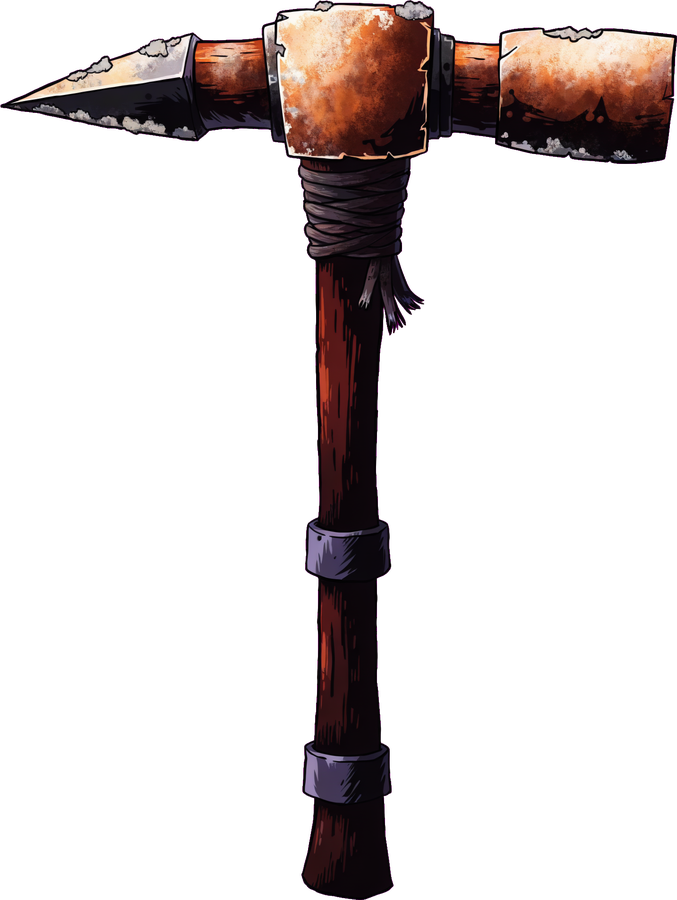
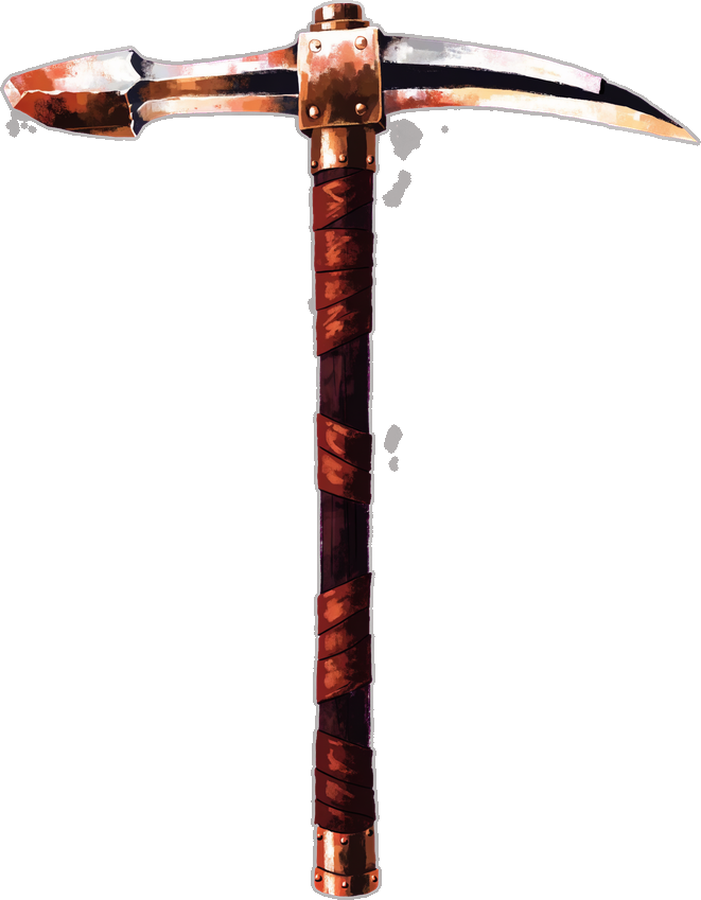
Mining: skill roll, the swing, a Mining track, and a better pick sound
Breaking a rock now teaches you something one time in five rather than every
time, so rank 1 is roughly 250 rocks instead of 50 - a trade you work at
instead of a bar that fills on the first afternoon. Measured over 403 rocks:
21.8% and 24.6% across two runs, which is 20% within sampling noise.

The pickaxe is drawn swinging while he works, from new art in the painted
style the other weapons use - the first attempt was inked and stood out. Two
defects had to come off it: the generator painted a magenta glow despite the
prompt, and cut.py assumed the key colour instead of reading it, which it now
does off the border - asked for magenta the model had returned 246,0,195. It
also painted a drop shadow, 129k pixels of it, which would have followed the
pick through every swing.

The arc is fast down and slow back up, because that is how anything heavy is
swung: gravity does the strike and the arm does the lift.

A tap on the ground, a click on a foe, WASD or an arrow key all put the pick
away. The key check had to go in the keydown handler, not the movement block:
mining bypasses that whole branch, which is how it drives the hero's feet, so
a check inside it never ran. A spell key deliberately does not cancel.

Mining now appears under the spells in the hero panel with a blue track, and
the bar counts within the CURRENT rank - an Expert wants to see 40/125 toward
rank 4, not 165/500 toward a number he does not recognise.
[…]

Changed region(s): [[0.0, 0.0, 1.0, 1.0]]

diff --git a/game.js b/game.js
@@ -116,6 +116,7 @@ const maceImg=new Image();maceImg.src='assets/weapons/mace.png';
    stops a browser that already cached the old boss from serving it forever. */
 const odinImg=new Image();odinImg.src='assets/boss/odin_boss.png?v=2';
 const odinSpearImg=new Image();odinSpearImg.src='assets/boss/odin_spear.png?v=2';
+const pickImg=new Image();pickImg.src='assets/weapons/pickaxe.png?v=2'; /* the miner's tool */
 /* the three lords of the Violet Halls - painted bodies + one shared blade, tinted per lord */
 const fellordImg=new Image();fellordImg.src='assets/boss/fellord_boss.png?v=2';
 const firelordImg=new Image();firelordImg.src='assets/boss/firelord_boss.png?v=2';
@@ -2253,14 +2254,33 @@ function startAmbience(prof){
 /* Combat / one-shot sounds - all routed through the sfx bus (⚔ button mutes just these). */
 const sfx={
  hit:()=>{noiseHit(0.08,.11,520);blip(170,70,0.09,.07,'triangle');},
- /* ⛏ steel into stone. Three parts, because one is never enough to sound like anything: the bright
-    crack of the point going in, the dull body of the rock taking it, and a short ring off the head.
-    The pitch wanders a little per swing so a run of them does not turn into a machine. */
+ /* ⛏ steel into stone, built in four layers because a single burst never reads as a struck object.
+    1. the transient - a very short bright crack, which is what the ear uses to judge force
+    2. the stone - band-passed noise with a fast, rough decay: rock crumbling rather than hissing
+    3. the ring - the pick head itself. Struck metal is INHARMONIC, its overtones do not sit on
+       whole-number multiples the way a string's do, so the partials here are 1 : 2.76 : 5.40,
+       the ratios of a struck bar. Using octaves instead would sound like a bell or a chime.
+    4. the mass - a low thud so the hit has weight under all that brightness
+    Everything is nudged per swing so a run of them never turns into a machine. */
  pick:()=>{
-  const j=0.9+Math.random()*0.25;
-  noiseSweep(0.045,.085,3200*j,1100*j);
-  noiseHit(0.13,.075,430);
-  blip(520*j,150,0.09,.035,'square');
+  if(!AC.ctx||(S&&!S.sfx))return;
+  const j=0.92+Math.random()*0.18;
+  noiseSweep(0.020,.040,2600*j,1100*j);            /* 1 - short and not too bright: the first pass
+     put 78% of the energy above 2.5 kHz, which reads as hiss rather than as steel on rock */
+  noiseHit(0.105,.095,820*j);                       /* 2 - the crumble, given more of the mix */
+  noiseHit(0.19,.065,280);                          /* 4 - the weight under it */
+  const t=AC.ctx.currentTime, f0=1180*j;            /* 3 */
+  [[1,0.042,0.36],[2.76,0.018,0.24],[5.40,0.007,0.15]].forEach(([mul,vol,dur])=>{
+   const o=AC.ctx.createOscillator();o.type='triangle';o.frequency.value=f0*mul;
+   const g=AC.ctx.createGain();
+   g.gain.setValueAtTime(0.0001,t);
+   g.gain.linearRampToValueAtTime(vol,t+0.004);      /* near-instant attack: it is a strike.
+      Raw level, not scaled by sfxVol() - the sfxG bus this feeds already carries that gain, and
+      applying it here as well would square it and make the combat slider behave oddly at the ends. */
+   g.gain.exponentialRampToValueAtTime(0.0001,t+dur);
+   o.connect(g);g.connect(AC.sfxG||AC.ctx.destination);
+   o.start(t);o.stop(t+dur+0.02);
+  });
  },
  oreFound:()=>{blip(700,1180,0.10,.05,'triangle');blip(1180,1560,0.12,.04,'sine');},
  swing:()=>noiseSweep(0.13,.08,500,2400),
@@ -2489,10 +2509,12 @@ function startFishing(){
 function stopFishing(){fish.on=false;}
 /* catch toast - shows the last haul for 3s while the next cast is already flying */
 let fishToastT=null;
-function fishToast(html,color){
+function fishToast(html,color,ms){
+ /* ms is optional: a fishing catch is an event and holds for three seconds, but mining fires one of
+    these every few swings, so ore asks for something much shorter or the toast never leaves. */
  const t=$('fishToast');
  t.innerHTML=html;t.style.color=color||'';t.style.display='block';
- clearTimeout(fishToastT);fishToastT=setTimeout(()=>{t.style.display='none';},3000);
+ clearTimeout(fishToastT);fishToastT=setTimeout(()=>{t.style.display='none';},ms||3000);
 }
 $('fishBtn').onclick=()=>{if(fish.on)stopFishing();else startFishing();};
 $('torchBtn').onclick=()=>{ /* 🔥 drop a torch at your feet - a breadcrumb through the maze */
@@ -3392,7 +3414,7 @@ function mineRefresh(){
  const b=$('mineLearn');
  if(b)b.onclick=()=>{
   S.mining={trained:true,skill:0,on:false};
-  save();buildSkillbar();renderHUD();sfx.loot();
+  save();buildSkillbar();renderHUD();renderHero();sfx.loot();
   log('<span class="imp">⛏ Mining learned.</span> The pick sits beside your potions - tap it and you will work every rock in the zone.','loot');
   mineRefresh();
  };
@@ -3410,7 +3432,17 @@ function toggleMining(){
  stageMsg(S.mining.on?'⛏ Mining - the pick is out':'⛏ Pick stowed',1400);
  sfx.buy();save();
 }
-let mineTarget=null,mineSwingT=0,mineHits=0,mineNeed=0;
+let mineTarget=null,mineSwingT=0,mineHits=0,mineNeed=0,mineSwingPh=1;
+/* Anything the player does with his own hands puts the pick away: a tap on the ground, a key, a
+   chosen target. Mining drives the hero's feet, so leaving it running while he tries to walk would
+   be a tug of war he cannot win. */
+function stopMining(why){
+ if(!(S&&S.mining&&S.mining.on))return;
+ S.mining.on=false;mineTarget=null;
+ const b=$('mineBtn');if(b)b.classList.remove('on');
+ if(why)stageMsg('⛏ Pick stowed',1100);
+ save();
+}
 /* Rocks are plain scenery solids, so a mined one is simply marked and skipped from then on. It
    comes back next time the zone is built, which is what the player expects from a field of stone -
    and it means none of this has to survive a save. */
@@ -3444,8 +3476,10 @@ function mineTick(dt){
  hero.moving=false;
  hero.fx=Math.sign(mineTarget.x-hero.x)||hero.fx;hero.fy=0;
  mineSwingT-=dt;
+ mineSwingPh=Math.max(0,Math.min(1,1-mineSwingT/0.62)); /* 0 at the strike, 1 by the next */
  if(mineSwingT>0)return true;
  mineSwingT=0.62;                                     /* one swing every 0.62 s */
+ mineSwingPh=0; /* it lands now - restart the arc from the strike */
  hero.swing=0.24;                                     /* reuse the attack animation's arc */
  sfx.pick();
  for(let i=0;i<5;i++)parts.push({x:mineTarget.x+(Math.random()-0.5)*mineTarget.r,y:mineTarget.y-6,
@@ -3453,13 +3487,21 @@ function mineTick(dt){
  if(++mineHits<mineNeed)return true;
  /* the rock gives */
  mineTarget.mined=true;
- mineGain();
+ /* One rock in five teaches you something. At a flat 20% the skill climbs one point at a time all
+    the way up - 1, 2, 3 - so rank 1 is roughly 250 rocks rather than 50, and the whole 500 is a
+    trade you work at rather than a bar that fills on the first afternoon. */
+ if(Math.random()<0.20)mineGain();
  const dr=MINE_DROPS[mineRank().r-1];
- let got=[];
- if(Math.random()<dr.coal){S.ore.coal++;got.push('Coal');}
- if(Math.random()<dr.ore){S.ore.ore++;got.push('Emerald Ore');}
+ let got=[],toast=[];
+ if(Math.random()<dr.coal){S.ore.coal++;got.push('Coal');
+  toast.push(`${uiIcon('it_coal','⬛','lootico')} <b>Coal</b>`);}
+ if(Math.random()<dr.ore){S.ore.ore++;got.push('Emerald Ore');
+  toast.push(`${uiIcon('it_emeraldore','🟩','lootico')} <b>Emerald Ore</b>`);}
  if(got.length){
   sfx.oreFound();
+  /* a short toast on screen as well as the number over the rock - the rock can be off at the edge
+     of the view by the time it breaks, and the whole point is to see what you got */
+  fishToast('+ '+toast.join(' &nbsp;+ '),got.includes('Emerald Ore')?'#9adf9a':'#cfc3ae',1400);
   floatAt(mineTarget.x,mineTarget.y-30,'+'+got.join(' +'),'#9adf9a',true);
   log(`⛏ ${got.join(' and ')} from the rock.`,'loot');
   renderBag();
@@ -3473,6 +3515,7 @@ function mineGain(){
  if(!S.mining)return;
  if(S.mining.skill>=500)return;
  S.mining.skill++;
+ renderHero(); /* the Mining row lives in the hero panel - keep its bar honest */
  const rk=mineRank();
  if(S.mining.skill===rk.at&&rk.r>1){
   sfx.loot();
@@ -3744,28 +3787,38 @@ function drawCityGround(){
    stonework simply continues for 16800 units with no joins to hide. The west run is split around
    the gateway. Culled per run, and the whole thing is skipped while the art is still loading. */
 function drawCityWalls(){
- const ph=cityPattern('wall_strip_h'),pv=cityPattern('wall_strip_v');
- if(!ph||!pv)return;
+ const ih=cityImg('wall_strip_h'),iv=cityImg('wall_strip_v');
+ if(!(ih.complete&&ih.naturalWidth&&iv.complete&&iv.naturalWidth))return;
  const W=world.w,H=world.h,cy=H/2;
  const WI=60,WT=140,WIN=WI+WT,GH=150;
- const hh=cityImg('wall_strip_h').naturalHeight;      /* the art is authored at its world height */
- const vw=cityImg('wall_strip_v').naturalWidth;
+ const hh=ih.naturalHeight;      /* the art is authored at its world height */
+ const vw=iv.naturalWidth;
  const vx0=camX,vy0=camY,vx1=camX+VW/zoom,vy1=camY+VH/zoom;
- /* Clip each band to the camera instead of merely testing whether it is visible at all. The north
-    and south runs are world.w = 16800 wide and the side runs world.h = 5200 tall, so the old test
-    passed and then asked Chromium to rasterise a pattern across the entire map to show the ~1600
-    on screen. Profiling a City frame put this one function at 32.7 ms of 76. The pattern is
-    anchored in world space, so painting only the visible slice produces identical pixels. */
- const band=(x,y,w,h,pat)=>{
+ /* Lay the wall as tiled blits, not as a pattern fill.
+    Clipping the fills to the camera - which is what used to happen here - made no measurable
+    difference, because the cost was never the area. A CanvasPattern is anchored in world space, so
+    every frame the camera moves hands the rasteriser a new device-space phase, and whatever that
+    leaves behind accumulates: profiling put this one function at 19.7 ms of a 26 ms City frame, and
+    an ordinary zone visited AFTER the City ran at 39 ms against its usual 8. Blitting the same tile
+    on a world-aligned grid draws the same pixels with none of that.
+    The rect clip keeps the last tile of a run from spilling past the end of the band - the west wall
+    stops either side of the gateway, and a tile overshooting there would brick up the arch. */
+ const band=(x,y,w,h,img,horiz)=>{
   const x0=Math.max(x,vx0),y0=Math.max(y,vy0),x1=Math.min(x+w,vx1),y1=Math.min(y+h,vy1);
   if(x1<=x0||y1<=y0)return;
-  ctx.fillStyle=pat;ctx.fillRect(x0,y0,x1-x0,y1-y0);
+  if(!(img.complete&&img.naturalWidth))return;
+  const TW=img.naturalWidth,TH=img.naturalHeight;
+  ctx.save();
+  ctx.beginPath();ctx.rect(x0,y0,x1-x0,y1-y0);ctx.clip();
+  if(horiz)for(let tx=Math.floor(x0/TW)*TW;tx<x1;tx+=TW)ctx.drawImage(img,tx,y,TW,TH);
+  else     for(let ty=Math.floor(y0/TH)*TH;ty<y1;ty+=TH)ctx.drawImage(img,x,ty,TW,TH);
+  ctx.restore();
  };
- band(0,WIN-hh,W,hh,ph);                              /* north - stands up from the inner face */
- band(0,H-WI-hh,W,hh,ph);                             /* south */
- band(WIN-vw,0,vw,cy-GH,pv);                          /* west, above the gateway */
- band(WIN-vw,cy+GH,vw,H-(cy+GH),pv);                  /* west, below it */
- band(W-WIN,0,vw,H,pv);                               /* east */
+ band(0,WIN-hh,W,hh,ih,true);                              /* north - stands up from the inner face */
+ band(0,H-WI-hh,W,hh,ih,true);                             /* south */
+ band(WIN-vw,0,vw,cy-GH,iv,false);                          /* west, above the gateway */
+ band(WIN-vw,cy+GH,vw,H-(cy+GH),iv,false);                  /* west, below it */
+ band(W-WIN,0,vw,H,iv,false);                               /* east */
  /* the gatehouse sits IN the wall, not on top of it: same flat top-down projection, scaled so its
     own masonry band comes out exactly as wide as the strip's. Both fractions are measured off the
     art (columns at least half opaque): 0.626 of the gate's width, 0.978 of the strip's tile - the
@@ -5236,6 +5289,9 @@ window.addEventListener('keydown',e=>{
  const k=e.key||'';
  const kl=k.toLowerCase();
  if(!kl)return;
+ /* any movement key puts the pick away. This has to live here, not in the movement block -
+    mining bypasses that whole branch, so a check inside it would never run. */
+ if('wasd'.includes(kl)&&kl.length===1||kl.startsWith('arrow'))stopMining(true);
  if(kl==='escape'&&gameOn&&world&&zoneOf().farm&&buildMode){ /* ✋ same as right-click: put the tool down */
   const held=farmDeselect();
   if(held){e.preventDefault();sfx.warn();stageMsg('✋ Put down '+held,1100);return;}
@@ -5455,9 +5511,10 @@ cv.addEventListener('pointerdown',e=>{
   const d=Math.hypot(wx-en.x,wy-en.y);
   if(d<en.r+20&&d<bd+en.r){best=en;bd=d;}}
  hero.goPortal=false;
- if(best){hero.target=best;hero.moveTo=null;}
+ if(best){hero.target=best;hero.moveTo=null;stopMining(true);}
  else{
   hero.moveTo={x:Math.max(30,Math.min(world.w-30,wx)),y:Math.max(30,Math.min(world.h-30,wy))};hero.target=null;marker={x:hero.moveTo.x,y:hero.moveTo.y,t:0};
+  stopMining(true); /* a tap on the ground is the player taking the wheel */
   holdMove={id:e.pointerId,cx:e.clientX,cy:e.clientY}; /* keep the finger/mouse button down and the hero follows it */
  }
 });
@@ -7744,6 +7801,22 @@ function drawHero(){
  if(dancing)ctx.rotate(Math.sin(h.dance*6)*0.25);
  if((charSprite(S.race,c.id,S.gender==='f')||{}).naturalWidth)bootFeet(S.gender==='f'?Object.assign({fem:true},{moving:h.moving,walk:h.walk}):h);else feet(h,1);
  drawChampionSprite(ctx,S.race,c.id,fx,by,danceSwing,fish.on?false:isFK(S.gear.weapon),fish.on?'fishingrod':(isFG(S.gear.weapon)?'felglaives':(isFK(S.gear.weapon)?'rimfrost':null)),S.gender==='f',h.moving&&!h.dead?2:1,isIce(S.gear.armor));
+ /* the pick, drawn over the hero while he works. It replaces nothing - his weapon stays where it is -
+    it is simply the tool in his hands for as long as the swing lasts. The arc is fast down and slow
+    back up, because that is how anything heavy is swung: gravity does the strike, the arm does the lift. */
+ if(S.mining&&S.mining.on&&mineTarget&&!h.dead&&pickImg.complete&&pickImg.naturalWidth){
+  const p=mineSwingPh;                                  /* 0 the moment it lands, 1 by the next swing */
+  const ang=p<0.28 ? -1.25+(p/0.28)*1.95                /* down: overhead to buried, quick */
+                   :  0.70-((p-0.28)/0.72)*1.95;        /* up: back overhead, unhurried */
+  const dir=Math.sign(mineTarget.x-h.x)||1;
+  const PW=25.5,PH=PW*pickImg.naturalHeight/pickImg.naturalWidth;   /* 50% up from 17 */
+  ctx.save();
+  ctx.translate(dir*13,-9+by);                                      /* held further out from the body */
+  ctx.scale(dir,1);
+  ctx.rotate(ang);
+  ctx.drawImage(mip(pickImg,PW),-PW*0.5,-PH*0.82,PW,PH); /* pivot near the butt, so it swings from the grip */
+  ctx.restore();
+ }
  if(h.hurt>0){ctx.fillStyle='rgba(255,255,255,'+h.hurt*2.5+')';ctx.beginPath();ctx.arc(0,-8+by,11,0,7);ctx.fill();}
  ctx.font='700 10px '+getComputedStyle(document.body).fontFamily;
  ctx.textAlign='center';
@@ -8214,8 +8287,8 @@ function buildSkillbar(){
   if(autoCfgMode)toggleAutoUse('s'+i,$('au'+i));
   else cast(i,true);
  });
- if(mineTrained()){
-  $('potHp').insertAdjacentHTML('beforebegin',
+ if(mineTrained()){ /* to the right of the mana flask, at the end of the bar */
+  $('potMp').insertAdjacentHTML('afterend',
    `<button class="skill pot mine${S.mining.on?' on':''}" id="mineBtn" title="Mine every rock in the zone">${uiIcon('ui_pick','⛏')}</button>`);
   $('mineBtn').onclick=()=>toggleMining();
  }
@@ -8470,6 +8543,22 @@ function renderHero(){
   <div class="card spellcard"><div class="spellg">${spellGlyph(sp)}</div>
   <div><div class="sn" style="color:var(--parch);font-size:13px">${sp.n} <span style="color:var(--mp);font-size:10px">${spellManaCost(sp)} mana · ${sp.cd}s</span></div>
   <div class="ss" style="color:var(--dim);font-size:11px">${sp.d}</div></div></div>`).join('');
+ /* ⛏ Mining sits under the spells once it has been learned - it is the one thing on this panel the
+    hero can improve outside a fight, so it reads as another line of the spellbook rather than as a
+    setting. The bar counts within the CURRENT rank: an Expert wants to see 40/125 towards rank 4,
+    not 165/500 towards nothing he recognises. */
+ if(mineTrained()){
+  const s=mineSkill(),rk=mineRank(),into=s-rk.at,span=rk.to-rk.at;
+  $('spellList').insertAdjacentHTML('beforeend',`
+   <div class="card spellcard">
+    <div class="spellg">${uiIcon('ui_pick','⛏')}</div>
+    <div style="flex:1;min-width:0">
+     <div class="sn" style="color:var(--parch);font-size:13px">Mining
+      <span style="color:#8fc3ef;font-size:10px">${rk.n} · rank ${rk.r} of 4</span></div>
+     <div class="minebar"><i style="width:${Math.round(100*into/span)}%"></i><b>${into} / ${span}</b></div>
+    </div>
+   </div>`);
+ }
  $('autoEquipBtn').textContent=S.autoEquip?'On':'Off';
 }
 function renderMap(){

diff --git a/style.css b/style.css
@@ -131,7 +131,7 @@
   .skill.pot{border-color:var(--brass-deep);font-size:17px}
   /* ⛏ half the size of a spell button, as asked - it is a toggle you set and forget, not something
      you reach for mid-fight, so it should not compete with the potions for the thumb. */
-  .skill.mine{width:23px;height:23px;border-radius:6px;align-self:flex-end;margin-bottom:2px}
+  .skill.mine{width:32px;height:32px;border-radius:8px;align-self:flex-end;margin-bottom:2px}
   .skill.mine.on{border-color:#e8c06a;box-shadow:0 0 9px rgba(232,192,106,.65)}
   /* the mining hall and the smelter reuse the smith's panel and forge slots rather than inventing
      their own - one modal shape across every venue in the game */
@@ -215,6 +215,14 @@
   .sbtn:disabled{opacity:.4;cursor:default}
   .toggle-row{display:flex;justify-content:space-between;align-items:center;font-size:12.5px}
   .spellcard{display:flex;gap:10px;align-items:center}
+  /* ⛏ the mining track, styled off the spell card it sits under. The count rides inside the bar
+     rather than beside it so the row stays the same height as the spells above it. */
+  .minebar{position:relative;height:15px;margin-top:5px;border-radius:8px;overflow:hidden;
+           background:rgba(0,0,0,.34);border:1px solid rgba(120,170,220,.30)}
+  .minebar i{display:block;height:100%;border-radius:8px;
+             background:linear-gradient(180deg,#6fb3ef,#2f6fb5);transition:width .35s ease}
+  .minebar b{position:absolute;inset:0;display:flex;align-items:center;justify-content:center;
+             font-size:10.5px;font-weight:600;color:#eaf3ff;text-shadow:0 1px 2px rgba(0,0,0,.8)}
   .spellg{width:36px;height:36px;border-radius:9px;background:#2a1d13;border:1px solid var(--brass-deep);display:flex;align-items:center;justify-content:center;font-size:17px;flex:0 0 auto}
   .glowdot{display:inline-block;width:8px;height:8px;border-radius:50%;margin-right:5px;vertical-align:middle}
   .wallet{font-size:12px;color:var(--dim);margin:-6px 0 12px}

diff --git a/index.html b/index.html
@@ -18,7 +18,7 @@
 <link rel="apple-touch-icon" href="favicon_256.png">
 <!-- ?v= is not decoration: without it iOS Safari serves a cached stylesheet for days, so two
      phones end up running two different builds of the layout. Bump on every visual change. -->
-<link rel="stylesheet" href="style.css?v=16">
+<link rel="stylesheet" href="style.css?v=19">
 </head>
 <body>
 <div id="app">
@@ -668,6 +668,6 @@
   </nav>
 </div>
  
-<script src="game.js?v=24"></script>
+<script src="game.js?v=30"></script>
 </body>
 </html>
